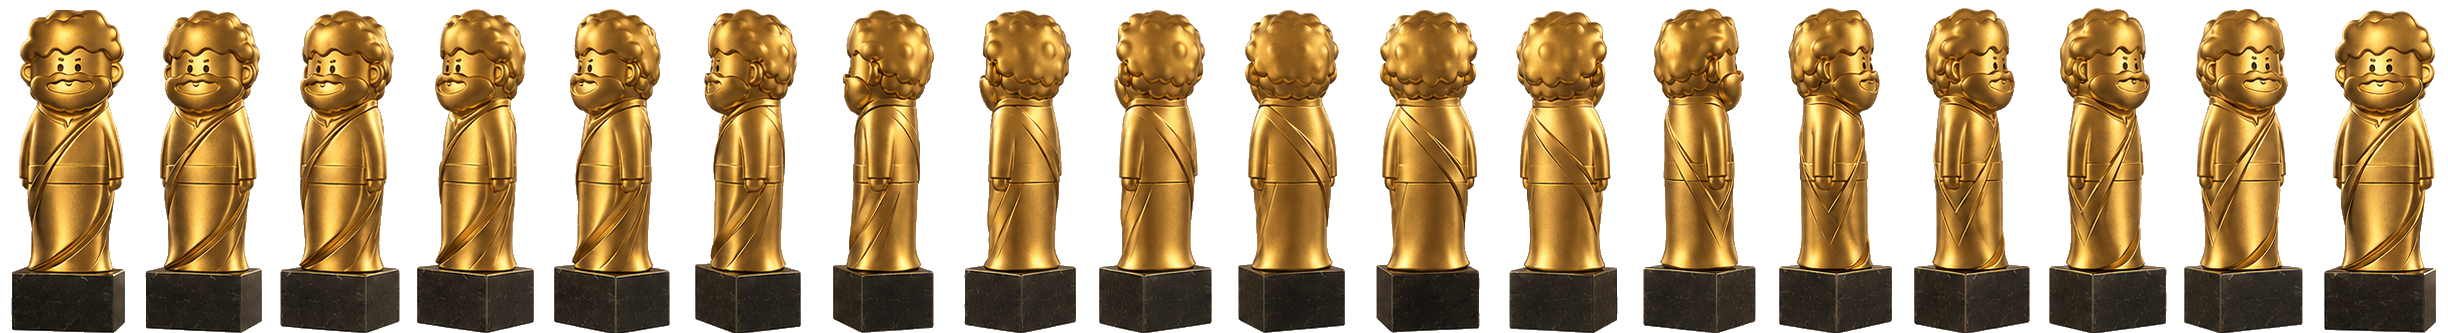
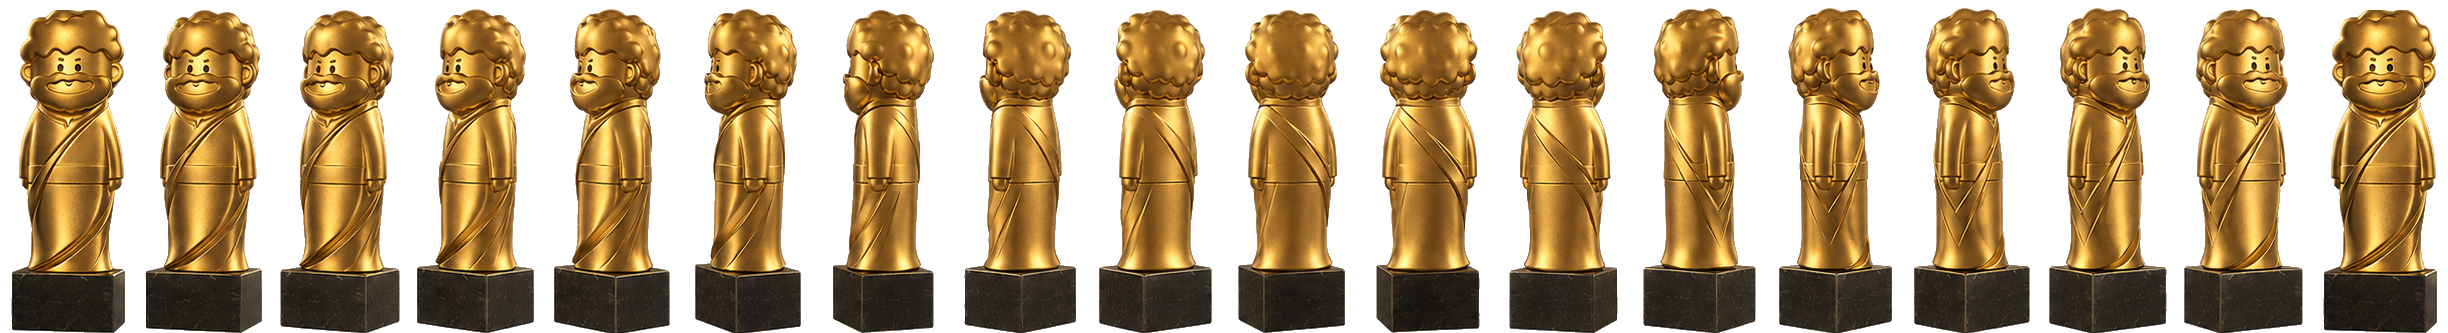
Make the trophy rotation read as one continuous turn
The source turntable ended with an approximate duplicate of the opening angle and exposed only 17 useful poses over a six-second rotation. The strip now ends with an exact opening-frame sentinel, while synchronized current/next layers blend each adjacent angle and hand off without a visible loop seam.

Constraint: Preserve the existing 3D trophy artwork and operator-controlled rotation duration

Rejected: Speed up the rotation | faster stepping hides rather than fixes the low-frame-rate motion

Rejected: Generate synthetic angles from one photo | the real turntable views preserve the trophy's modeled depth

Confidence: high

Scope-risk: narrow

Reversibility: clean

Directive: Keep the sheet at 17 unique frames plus one exact loop sentinel unless the CSS frame constants are updated together

Tested: trophy strip regeneration; exact first/sentinel pixel equality; frontend production build; 83 Python tests; local browser animation timing, loop-boundary frames, transparency, and console checks

Not-tested: Motion appearance inside the operator's final PowerPoint/OBS compositor

Changed region(s): [[0.9314, 0.03, 1.0, 0.9309], [0.9314, 0.991, 0.9935, 1.0]]

diff --git a/frontend/src/styles/retreat-world.css b/frontend/src/styles/retreat-world.css
@@ -127,13 +127,32 @@ html[data-background-mode="transparent"] .retreat-parade__sand {
 }
 
 .retreat-parade__trophy img {
+  position: absolute;
+  top: 0;
+  left: 0;
   display: block;
   height: 100%;
   width: 1800%;
   max-width: none;
   object-fit: fill;
-  animation: retreat-trophy-spin var(--trophy-spin-duration, 6s) steps(18) infinite;
   will-change: transform;
+}
+
+.retreat-parade__trophy img:first-child {
+  /* The sheet has 17 unique angles plus an exact copy of frame zero. */
+  animation:
+    retreat-trophy-spin-current var(--trophy-spin-duration, 6s)
+    steps(17, jump-end) infinite;
+}
+
+.retreat-parade__trophy img:last-child {
+  opacity: 0;
+  animation:
+    retreat-trophy-spin-next var(--trophy-spin-duration, 6s)
+      steps(17, jump-end) infinite,
+    retreat-trophy-frame-blend var(--trophy-frame-duration, 0.352941s)
+      linear infinite;
+  will-change: opacity, transform;
 }
 
 .retreat-parade__sky,
@@ -1529,9 +1548,19 @@ html[data-background-mode="transparent"] .retreat-parade__sand {
   to { transform: translateX(-87.5%); }
 }
 
-@keyframes retreat-trophy-spin {
+@keyframes retreat-trophy-spin-current {
   from { transform: translateX(0); }
+  to { transform: translateX(-94.444444%); }
+}
+
+@keyframes retreat-trophy-spin-next {
+  from { transform: translateX(-5.555556%); }
   to { transform: translateX(-100%); }
+}
+
+@keyframes retreat-trophy-frame-blend {
+  from { opacity: 0; }
+  to { opacity: 1; }
 }
 
 @keyframes retreat-fire-glow {

diff --git a/frontend/src/pages/AllCharactersPage.tsx b/frontend/src/pages/AllCharactersPage.tsx
@@ -105,6 +105,7 @@ interface ScenePosition {
 const TROPHY_MIN_SPIN_SECONDS = 1.5;
 const TROPHY_MAX_SPIN_SECONDS = 20;
 const TROPHY_DEFAULT_SPIN_SECONDS = 6;
+const TROPHY_UNIQUE_FRAMES = 17;
 
 function clampSpinSeconds(value: number): number {
   return Math.max(TROPHY_MIN_SPIN_SECONDS, Math.min(TROPHY_MAX_SPIN_SECONDS, value));
@@ -1141,6 +1142,7 @@ export function AllCharactersWorld({ preview = false, scene }: AllCharactersPage
       ? groups
       : activeSceneGroups;
   const trophyPosition = activeLayout.trophy ?? defaultTrophyPosition();
+  const trophySpinSeconds = trophyPosition.spinSeconds ?? TROPHY_DEFAULT_SPIN_SECONDS;
   const poseOptions = poseOptionsForPage(displayMode);
   const xForCanvas = (x: number) => (
     displayMode === 'seating' && layoutMode
@@ -1592,9 +1594,11 @@ export function AllCharactersWorld({ preview = false, scene }: AllCharactersPage
             '--trophy-bottom': `${trophyPosition.bottom}${STAGE_UNIT_Y}`,
             '--trophy-scale': trophyPosition.scale,
             '--trophy-rotation': `${trophyPosition.rotation}deg`,
-            '--trophy-spin-duration': `${trophyPosition.spinSeconds ?? TROPHY_DEFAULT_SPIN_SECONDS}s`,
+            '--trophy-spin-duration': `${trophySpinSeconds}s`,
+            '--trophy-frame-duration': `${trophySpinSeconds / TROPHY_UNIQUE_FRAMES}s`,
           } as CSSProperties}
         >
+          <img src="/assets/trophy/trophy-strip.png" alt="" draggable={false} />
           <img src="/assets/trophy/trophy-strip.png" alt="" draggable={false} />
         </div>
       ) : null}

diff --git a/scripts/turntable_sheet_to_strip.py b/scripts/turntable_sheet_to_strip.py
@@ -11,10 +11,12 @@ GRID (N columns x M rows). This tool:
 3. Keeps only the COMPLETE rows (a cropped partial bottom row is dropped).
 4. Reads the cells row-major (row0 col0..colN, row1 ...) which is the natural
    continuous-rotation order.
-5. Trims each frame and bottom-centre aligns it on a uniform canvas so the base
+5. Replaces the final near-360-degree frame with an exact copy of the first
+   frame. The last cell is a blend-only loop sentinel, not another held frame.
+6. Trims each frame and bottom-centre aligns it on a uniform canvas so the base
    stays fixed while the figure spins in place.
-6. Writes one horizontal strip PNG and prints the frame count / size so the CSS
-   (`steps(N)` and `width: N*100%`) can be matched.
+7. Writes one horizontal strip PNG and prints the unique frame count / size so
+   the CSS animation can crossfade into the loop sentinel without a seam.
 
 Usage:
     .venv/bin/python scripts/turntable_sheet_to_strip.py \
@@ -102,7 +104,7 @@ def extract_frame(mask: np.ndarray, rgb: np.ndarray,
     sub_rgb = rgb[y0 + cy0:y0 + cy1 + 1, x0 + cx0:x0 + cx1 + 1]
     sub_alpha = cell_mask[cy0:cy1 + 1, cx0:cx1 + 1]
     rgba = np.dstack([sub_rgb, np.where(sub_alpha, 255, 0)]).astype(np.uint8)
-    return Image.fromarray(rgba, 'RGBA')
+    return Image.fromarray(rgba)
 
 
 def build_strip(frames: list[Image.Image], pad: int = 8) -> Image.Image:
@@ -114,6 +116,14 @@ def build_strip(frames: list[Image.Image], pad: int = 8) -> Image.Image:
         oy = max_h - frame.height  # bottom aligned -> base stays put
         strip.paste(frame, (ox, oy), frame)
     return strip, max_w, max_h
+
+
+def add_exact_loop_sentinel(frames: list[Image.Image]) -> tuple[list[Image.Image], int]:
+    """Drop the approximate 360° endpoint and append an exact 0° sentinel."""
+    if len(frames) < 3:
+        raise ValueError("A seamless turntable requires at least three source frames")
+    unique_frames = frames[:-1]
+    return [*unique_frames, unique_frames[0].copy()], len(unique_frames)
 
 
 def main() -> None:
@@ -133,14 +143,14 @@ def main() -> None:
         for row in full_rows
         for col in cols
     ]
+    frames, unique_frame_count = add_exact_loop_sentinel(frames)
     strip, fw, fh = build_strip(frames)
     args.output.parent.mkdir(parents=True, exist_ok=True)
     strip.save(args.output)
-    print(f"strip -> {args.output} ({strip.size[0]}x{strip.size[1]})")
-    print(f"FRAMES = {len(frames)}  frameWidth = {fw}  frameHeight = {fh}  "
-          f"aspect = {round(fw / fh, 5)}")
-    print(f"CSS: width: {len(frames) * 100}%;  animation steps({len(frames)});  "
-          f"aspect-ratio: {fw} / {fh};")
+    print(f"strip -> {args.output} ({strip.size[0]}x{strip.size[1]}, "
+          f"{unique_frame_count} unique + 1 exact loop sentinel)")
+    print(f"UNIQUE_FRAMES = {unique_frame_count}  SHEET_FRAMES = {len(frames)}  "
+          f"frameWidth = {fw}  frameHeight = {fh}  aspect = {round(fw / fh, 5)}")
 
 
 if __name__ == '__main__':

diff --git a/tests/test_page3_campfire_assets.py b/tests/test_page3_campfire_assets.py
@@ -455,6 +455,26 @@ class Page3CampfireAssetTests(unittest.TestCase):
         self.assertIn("displayMode !== 'awards' && sceneMedia.length > 0", source)
         self.assertIn("displayMode === 'awards' ? 'trophy' : 'group-1'", source)
         self.assertIn("PPT 위에 겹쳐 띄우는 회전 트로피", source)
+        self.assertIn("TROPHY_UNIQUE_FRAMES = 17", source)
+        self.assertIn("'--trophy-frame-duration'", source)
+        self.assertIn("retreat-trophy-frame-blend", styles)
+        self.assertIn("steps(17, jump-end)", styles)
+        self.assertNotIn("steps(18)", styles)
+        self.assertEqual(
+            source.count('<img src="/assets/trophy/trophy-strip.png"'),
+            2,
+        )
+        with Image.open(FRONTEND / "public" / "assets" / "trophy" / "trophy-strip.png") as strip:
+            self.assertEqual(strip.width % 18, 0)
+            frame_width = strip.width // 18
+            first_frame = strip.crop((0, 0, frame_width, strip.height))
+            loop_sentinel = strip.crop((
+                strip.width - frame_width,
+                0,
+                strip.width,
+                strip.height,
+            ))
+            self.assertEqual(first_frame.tobytes(), loop_sentinel.tobytes())
         self.assertIn("사이드바 닫기", source)
         self.assertIn('data-panel-open={panelOpen', editor)
         self.assertIn("설정 닫기", editor)